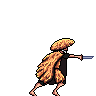
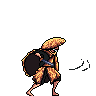
animation
animations works
jumping is messing everything up might just remove

Changed region(s): [[0.2188, 0.375, 1.0, 1.0], [0.7812, 0.6875, 0.8438, 0.7188]]

diff --git a/Smash.java b/Smash.java
@@ -37,34 +37,94 @@ public class Smash extends JFrame {
     Character p1 = new Character(50, 0, 1, 5, 5, 5);
 	Character p2 = new Character(250, 0, 0, 5, 5, 5);
     GameImage [] backgrounds = {
-        new GameImage("FireBackground.png", 0, 0, screen_width, screen_height),
-        new GameImage("SandBackground.png", 0, 0, screen_width, screen_height),
-        new GameImage("IceBackground.png", 0, 0, screen_width, screen_height),
-        new GameImage("SpaceBackground.png", 0, 0, screen_width, screen_height)
+        new GameImage("FireBackground.png", 0, 0, screen_width, screen_height, false),
+        new GameImage("SandBackground.png", 0, 0, screen_width, screen_height, false),
+        new GameImage("IceBackground.png", 0, 0, screen_width, screen_height, false),
+        new GameImage("SpaceBackground.png", 0, 0, screen_width, screen_height, false)
     };
-    GameImage [] character_run = {
-        new GameImage("RunAnimation/tile000.png", p1.x, p1.y, 96, 96),
-        new GameImage("RunAnimation/tile001.png", p1.x, p1.y, 96, 96),
-        new GameImage("RunAnimation/tile002.png", p1.x, p1.y, 96, 96),
-        new GameImage("RunAnimation/tile003.png", p1.x, p1.y, 96, 96),
-        new GameImage("RunAnimation/tile004.png", p1.x, p1.y, 96, 96),
-        new GameImage("RunAnimation/tile005.png", p1.x, p1.y, 96, 96)
+    SpriteImage [] character_runR = {
+        new SpriteImage("RunAnimation/tile000.png", p1.x, p1.y, 96, 96, false, p1),
+        new SpriteImage("RunAnimation/tile001.png", p1.x, p1.y, 96, 96, false, p1),
+        new SpriteImage("RunAnimation/tile002.png", p1.x, p1.y, 96, 96, false, p1),
+        new SpriteImage("RunAnimation/tile003.png", p1.x, p1.y, 96, 96, false, p1),
+        new SpriteImage("RunAnimation/tile004.png", p1.x, p1.y, 96, 96, false, p1),
+        new SpriteImage("RunAnimation/tile005.png", p1.x, p1.y, 96, 96, false, p1)
     };
-    GameImage [] character_attack = {
-        new GameImage("AttackAnimation/tile000.png", p1.x, p1.y, 96, 96),
-        new GameImage("AttackAnimation/tile001.png", p1.x, p1.y, 96, 96),
-        new GameImage("AttackAnimation/tile002.png", p1.x, p1.y, 96, 96),
-        new GameImage("AttackAnimation/tile003.png", p1.x, p1.y, 96, 96),
-        new GameImage("AttackAnimation/tile004.png", p1.x, p1.y, 96, 96),
-        new GameImage("AttackAnimation/tile005.png", p1.x, p1.y, 96, 96)
+    SpriteImage [] character_jumpR = {
+        new SpriteImage("JumpAnimation/tile000.png", p1.x, p1.y, 96, 96, false, p1),
+        new SpriteImage("JumpAnimation/tile001.png", p1.x, p1.y, 96, 96, false, p1),
+        new SpriteImage("JumpAnimation/tile002.png", p1.x, p1.y, 96, 96, false, p1),
+        new SpriteImage("JumpAnimation/tile003.png", p1.x, p1.y, 96, 96, false, p1),
+        new SpriteImage("JumpAnimation/tile004.png", p1.x, p1.y, 96, 96, false, p1),
+        new SpriteImage("JumpAnimation/tile005.png", p1.x, p1.y, 96, 96, false, p1),
+        new SpriteImage("JumpAnimation/tile006.png", p1.x, p1.y, 96, 96, false, p1),
+        new SpriteImage("JumpAnimation/tile007.png", p1.x, p1.y, 96, 96, false, p1)
     };
-    GameImage [] character_idle = {
-        new GameImage("IdleAnimation/tile000.png", p1.x, p1.y, 96, 96),
-        new GameImage("IdleAnimation/tile001.png", p1.x, p1.y, 96, 96),
-        new GameImage("IdleAnimation/tile002.png", p1.x, p1.y, 96, 96),
-        new GameImage("IdleAnimation/tile003.png", p1.x, p1.y, 96, 96),
-        new GameImage("IdleAnimation/tile004.png", p1.x, p1.y, 96, 96),
-        new GameImage("IdleAnimation/tile005.png", p1.x, p1.y, 96, 96)
+    SpriteImage [] character_attackR = {
+        new SpriteImage("AttackAnimation/tile000.png", p1.x, p1.y, 96, 96, false, p1),
+        new SpriteImage("AttackAnimation/tile001.png", p1.x, p1.y, 96, 96, false, p1),
+        new SpriteImage("AttackAnimation/tile002.png", p1.x, p1.y, 96, 96, false, p1),
+        new SpriteImage("AttackAnimation/tile003.png", p1.x, p1.y, 96, 96, false, p1),
+        new SpriteImage("AttackAnimation/tile004.png", p1.x, p1.y, 96, 96, false, p1),
+        new SpriteImage("AttackAnimation/tile005.png", p1.x, p1.y, 96, 96, false, p1),
+        new SpriteImage("AttackAnimation/tile006.png", p1.x, p1.y, 96, 96, false, p1),
+        new SpriteImage("AttackAnimation/tile007.png", p1.x, p1.y, 96, 96, false, p1),
+        new SpriteImage("AttackAnimation/tile008.png", p1.x, p1.y, 96, 96, false, p1),
+        new SpriteImage("AttackAnimation/tile009.png", p1.x, p1.y, 96, 96, false, p1),
+        new SpriteImage("AttackAnimation/tile0010.png", p1.x, p1.y, 96, 96, false, p1),
+        new SpriteImage("AttackAnimation/tile0011.png", p1.x, p1.y, 96, 96, false, p1),
+        new SpriteImage("AttackAnimation/tile0012.png", p1.x, p1.y, 96, 96, false, p1),
+        new SpriteImage("AttackAnimation/tile0013.png", p1.x, p1.y, 96, 96, false, p1)
+    };
+    SpriteImage [] character_idleR = {
+        new SpriteImage("IdleAnimation/tile000.png", p1.x, p1.y, 96, 96, false, p1),
+        new SpriteImage("IdleAnimation/tile001.png", p1.x, p1.y, 96, 96, false, p1),
+        new SpriteImage("IdleAnimation/tile002.png", p1.x, p1.y, 96, 96, false, p1),
+        new SpriteImage("IdleAnimation/tile003.png", p1.x, p1.y, 96, 96, false, p1),
+        new SpriteImage("IdleAnimation/tile004.png", p1.x, p1.y, 96, 96, false, p1),
+        new SpriteImage("IdleAnimation/tile005.png", p1.x, p1.y, 96, 96, false, p1)
+    };
+    SpriteImage [] character_runL = {
+        new SpriteImage("RunAnimation/tile000.png", p1.x, p1.y, 96, 96, true, p1),
+        new SpriteImage("RunAnimation/tile001.png", p1.x, p1.y, 96, 96, true, p1),
+        new SpriteImage("RunAnimation/tile002.png", p1.x, p1.y, 96, 96, true, p1),
+        new SpriteImage("RunAnimation/tile003.png", p1.x, p1.y, 96, 96, true, p1),
+        new SpriteImage("RunAnimation/tile004.png", p1.x, p1.y, 96, 96, true, p1),
+        new SpriteImage("RunAnimation/tile005.png", p1.x, p1.y, 96, 96, true, p1)
+    };
+    SpriteImage [] character_jumpL = {
+        new SpriteImage("JumpAnimation/tile000.png", p1.x, p1.y, 96, 96, true, p1),
+        new SpriteImage("JumpAnimation/tile001.png", p1.x, p1.y, 96, 96, true, p1),
+        new SpriteImage("JumpAnimation/tile002.png", p1.x, p1.y, 96, 96, true, p1),
+        new SpriteImage("JumpAnimation/tile003.png", p1.x, p1.y, 96, 96, true, p1),
+        new SpriteImage("JumpAnimation/tile004.png", p1.x, p1.y, 96, 96, true, p1),
+        new SpriteImage("JumpAnimation/tile005.png", p1.x, p1.y, 96, 96, true, p1),
+        new SpriteImage("JumpAnimation/tile006.png", p1.x, p1.y, 96, 96, true, p1),
+        new SpriteImage("JumpAnimation/tile007.png", p1.x, p1.y, 96, 96, true, p1)
+    };
+    SpriteImage [] character_attackL = {
+        new SpriteImage("AttackAnimation/tile000.png", p1.x, p1.y, 96, 96, true, p1),
+        new SpriteImage("AttackAnimation/tile001.png", p1.x, p1.y, 96, 96, true, p1),
+        new SpriteImage("AttackAnimation/tile002.png", p1.x, p1.y, 96, 96, true, p1),
+        new SpriteImage("AttackAnimation/tile003.png", p1.x, p1.y, 96, 96, true, p1),
+        new SpriteImage("AttackAnimation/tile004.png", p1.x, p1.y, 96, 96, true, p1),
+        new SpriteImage("AttackAnimation/tile005.png", p1.x, p1.y, 96, 96, true, p1),
+        new SpriteImage("AttackAnimation/tile006.png", p1.x, p1.y, 96, 96, true, p1),
+        new SpriteImage("AttackAnimation/tile007.png", p1.x, p1.y, 96, 96, true, p1),
+        new SpriteImage("AttackAnimation/tile008.png", p1.x, p1.y, 96, 96, true, p1),
+        new SpriteImage("AttackAnimation/tile009.png", p1.x, p1.y, 96, 96, true, p1),
+        new SpriteImage("AttackAnimation/tile0010.png", p1.x, p1.y, 96, 96, true, p1),
+        new SpriteImage("AttackAnimation/tile0011.png", p1.x, p1.y, 96, 96, true, p1),
+        new SpriteImage("AttackAnimation/tile0012.png", p1.x, p1.y, 96, 96, true, p1),
+        new SpriteImage("AttackAnimation/tile0013.png", p1.x, p1.y, 96, 96, true, p1)
+    };
+    SpriteImage [] character_idleL = {
+        new SpriteImage("IdleAnimation/tile000.png", p1.x, p1.y, 96, 96, true, p1),
+        new SpriteImage("IdleAnimation/tile001.png", p1.x, p1.y, 96, 96, true, p1),
+        new SpriteImage("IdleAnimation/tile002.png", p1.x, p1.y, 96, 96, true, p1),
+        new SpriteImage("IdleAnimation/tile003.png", p1.x, p1.y, 96, 96, true, p1),
+        new SpriteImage("IdleAnimation/tile004.png", p1.x, p1.y, 96, 96, true, p1),
+        new SpriteImage("IdleAnimation/tile005.png", p1.x, p1.y, 96, 96, true, p1)
     };
     Platform [] platforms = {
         new Platform(0, 460, 960, 20, 1, "newplatform.png"),
@@ -75,6 +135,7 @@ public class Smash extends JFrame {
         new Platform(572,  260, 200, 10, (int)Math.round(Math.random()), "newplatform.png"),
         new Platform(380, 160, 200, 10, (int)Math.round(Math.random()), "newplatform.png")
 	};
+    
 	ArrayList<Bullet> bullets1 = new ArrayList<Bullet>();
 	ArrayList<Bullet> bullets2 = new ArrayList<Bullet>();
     //Base Constructor
@@ -93,7 +154,7 @@ public class Smash extends JFrame {
                 update();
                 smashPanel.repaint();
                 
-                // Use iterators to avoid ConcurrentModificationException
+                // Use iterators to avoid ConcurrentModificationExcepdddddddddtion
                 Iterator<Bullet> iterator1 = bullets1.iterator();
                 while (iterator1.hasNext()) {
                     Bullet b = iterator1.next();
@@ -157,6 +218,11 @@ public class Smash extends JFrame {
             p1KeysPressed[0] = true;
 			if (p1.isOnPlatform(platforms))
 				p1.jump();
+                if (p1.horizontalFacing == 0){
+                    p1.state = "jumpL";
+                } else {
+                    p1.state = "jumpR";
+                }
         }
 		else if (key == KeyEvent.VK_S) {
 			p1KeysPressed[2] = true;
@@ -193,11 +259,15 @@ public class Smash extends JFrame {
         int key = e.getKeyCode();
         if (key == KeyEvent.VK_A) {
             p1KeysPressed[1] = false;
-            p1.state = "idle";
+            if(p1.state.equals("left")){
+                p1.state = "idleL";
+            }
         } 
 		else if (key == KeyEvent.VK_D) {
             p1KeysPressed[3] = false;
-            p1.state = "idle";
+            if(p1.state.equals("right")){
+                p1.state = "idleR";
+            }
         } 
 		else if (key == KeyEvent.VK_W) {
 			p1KeysPressed[0] = false;
@@ -281,11 +351,18 @@ public class Smash extends JFrame {
 
             
             g.setColor(Color.GREEN);
-            character_attack[0].x = p1.x;
-            character_attack[0].y = p1.y;
-            p1.draw(g, character_run, character_run, character_attack, character_attack, character_idle);
+                for (SpriteImage i : character_attackR) {i.update();}
+                for (SpriteImage i : character_idleR) {i.update();}
+                for (SpriteImage i : character_runR) {i.update();}
+                for (SpriteImage i : character_jumpR) {i.update();}
+                for (SpriteImage i : character_attackL) {i.update();}
+                for (SpriteImage i : character_idleL) {i.update();}
+                for (SpriteImage i : character_runL) {i.update();}
+                for (SpriteImage i : character_jumpL) {i.update();}
+                //for (SpriteImage i : character_) {i.update();}
+            p1.draw(g, character_runL, character_runR, character_attackL, character_attackR, character_idleL, character_idleR, character_jumpL, character_jumpR);
             g.fillRect(p2.x, p2.y, Character.width, Character.height);
-            
+                
             // Draw bullets
             g.setColor(Color.BLUE);  // Set a distinct color for bullet visibility
             for (Bullet b : bullets1) {

diff --git a/Character.java b/Character.java
@@ -9,9 +9,10 @@ import java.awt.Graphics;
 import java.awt.Rectangle;
 
 public class Character {
-    public String state = "idle";
+    public String state = "idleR";
 	static public int width = 96, height = 96; 
     public int jumpHeight = 100, spriteCounter = 0;
+    private long lastAnimationTime = System.currentTimeMillis();
 	
     public int x, y, jumpCounter, health, horizontalFacing, facing, speed, gravity, jump;
 	boolean isJumping; 
@@ -114,12 +115,21 @@ public class Character {
         }
         return false;
     }
-    public void draw(Graphics g, GameImage [] walkLeft, GameImage [] walkRight, GameImage [] attackLeft, GameImage [] attackRight, GameImage [] idle){
-        switch(state){
+    public void draw(Graphics g, GameImage[] walkLeft, GameImage[] walkRight, GameImage[] attackLeft, GameImage[] attackRight, GameImage[] idleLeft, GameImage[] idleRight, GameImage[] jumpLeft, GameImage[] jumpRight) {
+        int animationDelay = 30;
+        long currentTime = System.currentTimeMillis();
+    
+        switch (state) {
             case "right":
                 walkRight[spriteCounter].draw(g);
                 break;
             case "left":
+                walkLeft[spriteCounter].draw(g);
+                break;            
+            case "jumpRight":
+                walkRight[spriteCounter].draw(g);
+                break;
+            case "jumpleft":
                 walkLeft[spriteCounter].draw(g);
                 break;
             case "attackR":
@@ -128,18 +138,36 @@ public class Character {
             case "attackL":
                 attackLeft[spriteCounter].draw(g);
                 break;
-            case "idle":
-                idle[spriteCounter].draw(g);
+            case "idleL":
+                idleLeft[spriteCounter].draw(g);
                 break;
+            case "idleR":
+                idleRight[spriteCounter].draw(g);
+                break;
+            
+            case "jumpL":
+                jumpLeft[spriteCounter].draw(g);
+                break;
+            case "jumpR":
+                jumpRight[spriteCounter].draw(g);
+                break;
+            
         }
-        spriteCounter += 1;
-        if (spriteCounter == 5){
-            if (state.equals("attackL")){
-                state = "idle";
-            } else if (state.equals("attackR")){
-                state = "idle";
-            }
+    
+        if (currentTime - lastAnimationTime > animationDelay) {
+            spriteCounter += 1;
+            lastAnimationTime = currentTime;
+        }
+        if (spriteCounter == 5 && !state.startsWith("attack") && !state.startsWith("jump")) {
             spriteCounter = 0;
+        } else if (spriteCounter == 13) {
+            if (state.startsWith("attackL")) {
+                state = "idleL";
+                spriteCounter = 0;
+            } else if (state.startsWith("attackR")) {
+                state = "idleR";
+                spriteCounter = 0;
+            }
         }
     }
 }

diff --git a/GameImage.java b/GameImage.java
@@ -7,12 +7,14 @@ import java.net.URL;
 public class GameImage {
     BufferedImage image;
     int x, y, width, height;
+    boolean flip;
 
-    public GameImage(String imagePath, int x, int y, int width, int height) {
+    public GameImage(String imagePath, int x, int y, int width, int height, boolean flip) {
         this.x = x;
         this.y = y;
         this.width = width;
         this.height = height;
+        this.flip = flip;
         loadImage(imagePath);
     }
 
@@ -21,6 +23,9 @@ public class GameImage {
             URL resource = getClass().getResource(imagePath);
             if (resource != null) {
                 image = ImageIO.read(resource);
+                if (flip == true){
+                    image = horizontalFlip(image);
+                }
             } else {
                 throw new IOException("Resource not found: " + imagePath);
             }
@@ -34,4 +39,18 @@ public class GameImage {
             g.drawImage(image, x, y, width, height, null);
         }
     }
+
+    public static BufferedImage horizontalFlip(BufferedImage img) {
+        int width = img.getWidth();
+        int height = img.getHeight();
+        
+        BufferedImage flippedImage = new BufferedImage(width, height, BufferedImage.TYPE_INT_ARGB);
+        
+        Graphics2D g = flippedImage.createGraphics();
+        g.drawImage(img, width, 0, 0, height, 0, 0, width, height, null);
+        g.dispose();
+        
+        return flippedImage;
+    }
+
 }

diff --git a/SpriteImage.java b/SpriteImage.java
@@ -1,7 +1,11 @@
 public class SpriteImage extends GameImage{
     Character owner;
-    public SpriteImage(Character owner, String imagePath, int x, int y, int width, int height){
-        super(imagePath, x, y, width, height);
+    public SpriteImage(String imagePath, int x, int y, int width, int height, boolean flip, Character owner){
+        super(imagePath, x, y, width, height, flip);
         this.owner = owner;
+    }
+    public void update(){
+        x = owner.x;
+        y = owner.y;
     }
 }
